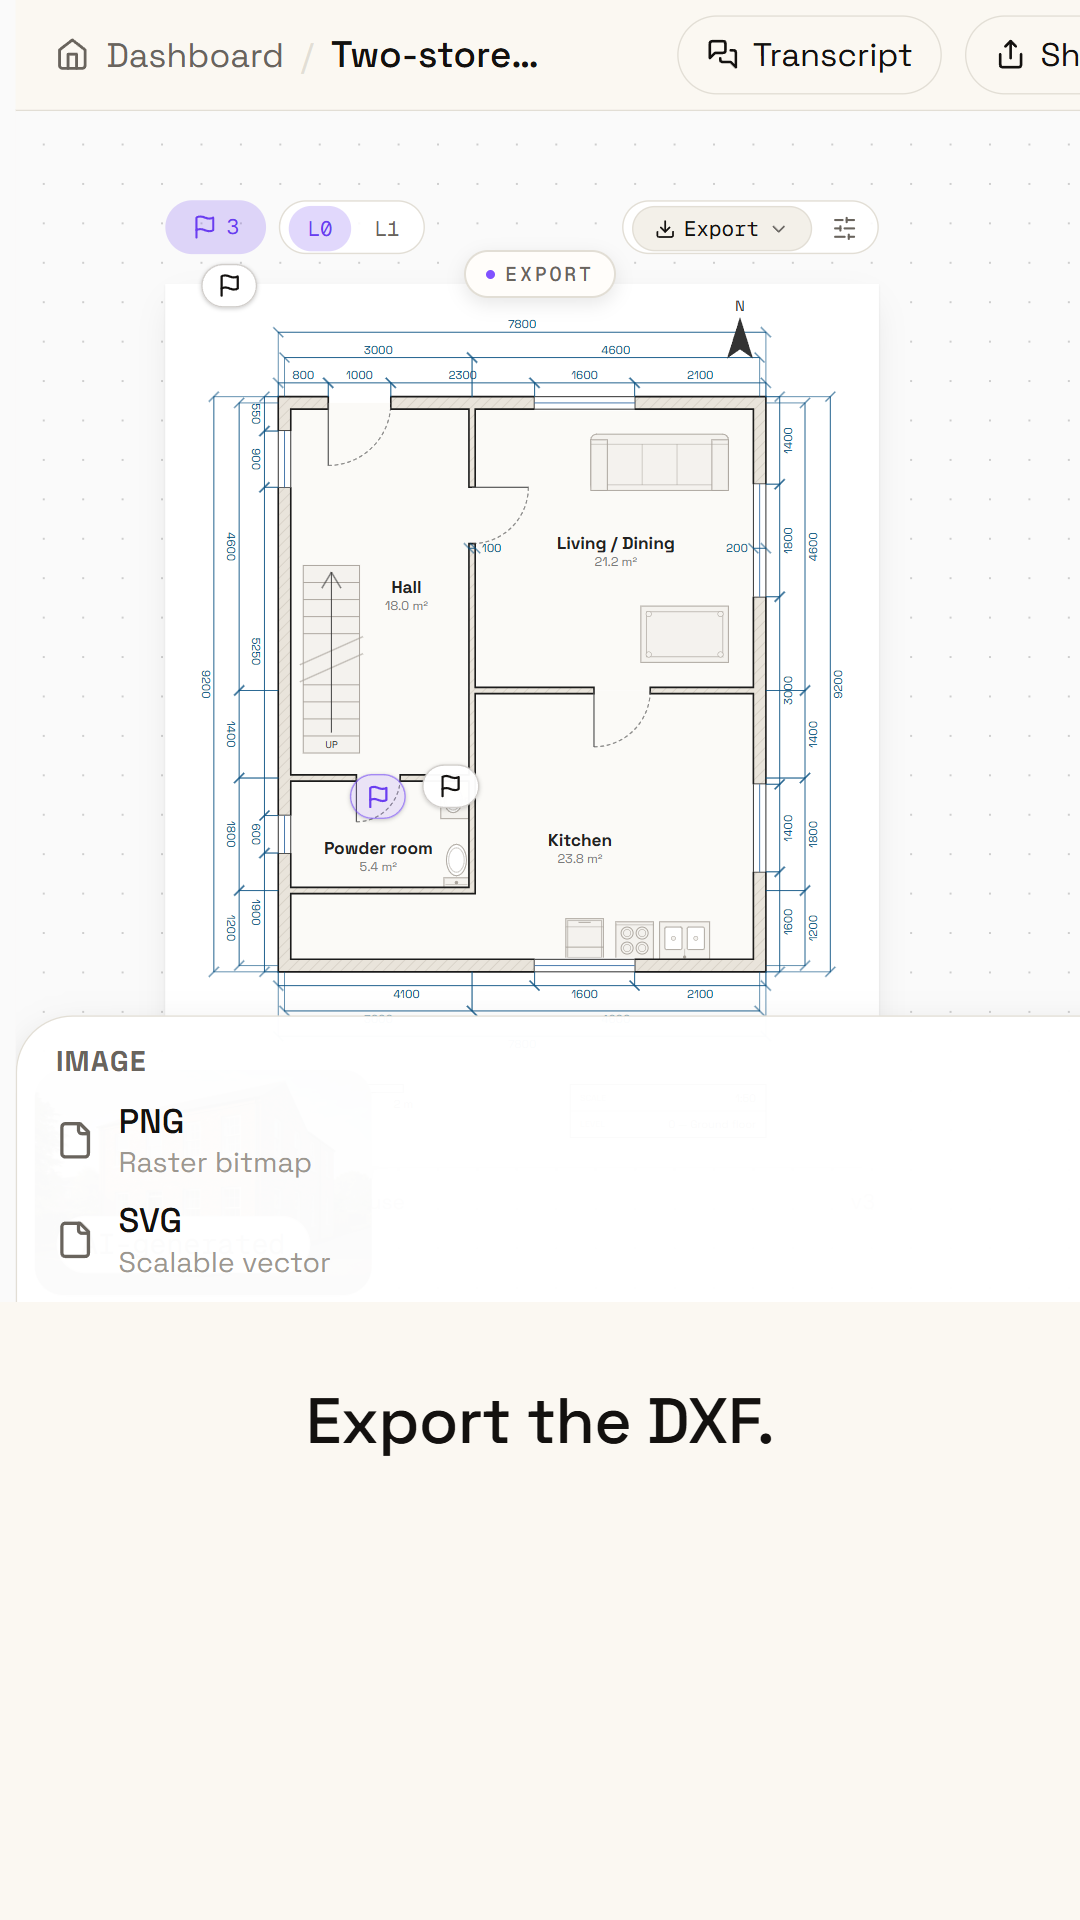
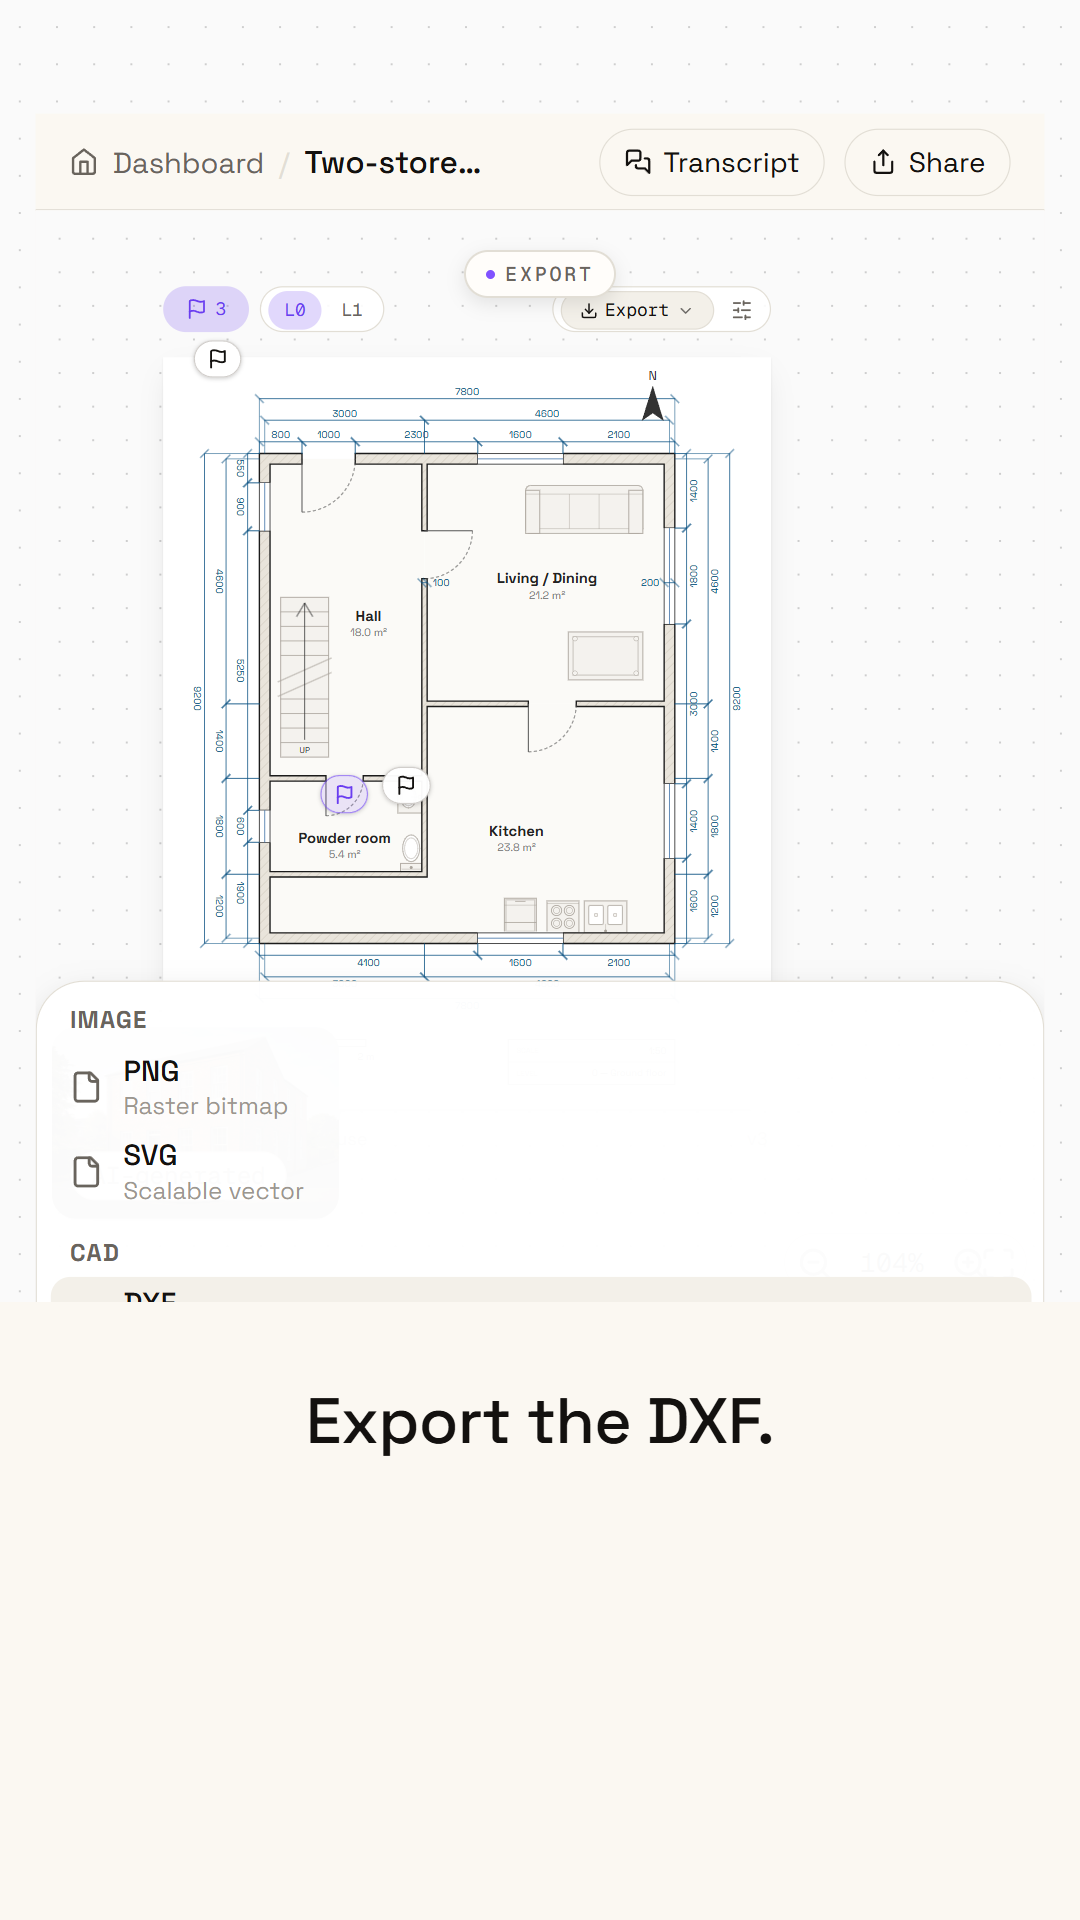
scenes: protect the export menu, and bound protection by the clip
The 9:16 export beat showed "Export the DXF." over a menu whose DXF row had been
cut off — the film's line naming the one thing the frame had cropped.

Two faults. The export menu was not a protected rectangle at all, though it is
the subject of its own beat and in portrait it is the product's full-width bottom
sheet. And protection was measured against the FRAME, while a split scene clips
the picture at the top of its type band — so a rectangle comfortably inside the
frame can be entirely below the clip.

`protectBounds` is that clip. Coverage still uses the whole frame: coverage is
about the page behind the picture, protection is about what a viewer can see.
The 9:16 export shot is now clamped twice over, and the whole menu is on screen.

diff --git a/src/camera.ts b/src/camera.ts
@@ -143,7 +143,18 @@ export interface FrameInput {
   focus: { x: number; y: number };
   /** Rectangles that must stay entirely inside the frame, in film pixels. */
   protect?: readonly StageRect[];
-  /** How far inside the frame edge a protected rectangle must stay. */
+  /**
+   * The box a protected rectangle must stay inside, if not the whole frame.
+   *
+   * ⚠ A `split` scene CLIPS the picture at the top of its type band, and a rect
+   * that is comfortably inside the frame can be entirely below that clip. The
+   * 9:16 export beat is the case: the menu is a full-width bottom sheet, the
+   * push slid it under the clip, and the master showed "Export the DXF." over a
+   * menu whose DXF row had been cut off. Coverage still uses the whole frame —
+   * it is the PROTECTION that is about what a viewer can see.
+   */
+  protectBounds?: StageRect;
+  /** How far inside the protection bounds a protected rectangle must stay. */
   margin?: number;
 }
 
@@ -191,8 +202,10 @@ export const framePush = ({
   scale,
   focus,
   protect = [],
+  protectBounds,
   margin = 8,
 }: FrameInput): FramePush => {
+  const bounds = protectBounds ?? { x: 0, y: 0, w: frameW, h: frameH };
   let s = Number.isFinite(scale) && scale > 1 ? scale : 1;
   let scaleClamped = false;
 
@@ -200,14 +213,14 @@ export const framePush = ({
   // translate, so the scale gives way before the obligation does.
   for (const r of protect) {
     if (r.w > 0) {
-      const cap = (frameW - 2 * margin) / r.w;
+      const cap = (bounds.w - 2 * margin) / r.w;
       if (cap < s) {
         s = Math.max(1, cap);
         scaleClamped = true;
       }
     }
     if (r.h > 0) {
-      const cap = (frameH - 2 * margin) / r.h;
+      const cap = (bounds.h - 2 * margin) / r.h;
       if (cap < s) {
         s = Math.max(1, cap);
         scaleClamped = true;
@@ -233,10 +246,10 @@ export const framePush = ({
   let loY = -(s - 1) * frameH;
   let hiY = 0;
   for (const r of protect) {
-    loX = Math.max(loX, margin - r.x * s);
-    hiX = Math.min(hiX, frameW - margin - (r.x + r.w) * s);
-    loY = Math.max(loY, margin - r.y * s);
-    hiY = Math.min(hiY, frameH - margin - (r.y + r.h) * s);
+    loX = Math.max(loX, bounds.x + margin - r.x * s);
+    hiX = Math.min(hiX, bounds.x + bounds.w - margin - (r.x + r.w) * s);
+    loY = Math.max(loY, bounds.y + margin - r.y * s);
+    hiY = Math.min(hiY, bounds.y + bounds.h - margin - (r.y + r.h) * s);
   }
 
   const wantX = anchorX - fx * s;
@@ -392,7 +405,7 @@ export const shotFor = (
   localFrame: number,
   layout: Layout,
   box: StageRect,
-  opts: { browserFrame: boolean },
+  opts: { browserFrame: boolean; clipBottom?: number },
 ): Shot => {
   const dur = Math.max(1, beat.durationInFrames);
   const localSec = frameToSec(localFrame);
@@ -420,6 +433,13 @@ export const shotFor = (
   const protect: StageRect[] = [];
   if (overlaps(span, CAPTION_SPAN)) protect.push(pad(captionRaw, layout.u(6)));
   if (overlaps(span, RENDERING_SPAN)) protect.push(pad(renderingRaw, layout.u(6)));
+  /*
+   * The export menu is the subject of its own beat, and in 9:16 it is a
+   * full-width bottom sheet. Unprotected, the push slid it under the split
+   * scene's clip and the master showed "Export the DXF." over a menu whose DXF
+   * row had been cut off — the line naming the thing the frame had cropped.
+   */
+  if (beat.scene === "export") protect.push(pad(designRect(mount, exportMenuBox(ctx)), layout.u(8)));
 
   const focusRect = focusRectFor(beat.scene, ctx, span);
   const focus = focusRect
@@ -432,6 +452,14 @@ export const shotFor = (
     scale: beat.frame * pushAt(beat.push, p) * entryScale(localSec),
     focus,
     protect,
+    // A split scene CLIPS the picture at the top of its type band, and a
+    // rectangle comfortably inside the frame can be entirely below that clip.
+    // The protection is about what a viewer can see, so it is bounded by the
+    // clip; coverage still uses the whole frame.
+    protectBounds:
+      opts.clipBottom === undefined
+        ? undefined
+        : { x: 0, y: 0, w: layout.width, h: Math.min(layout.height, opts.clipBottom) },
     // Not a hairline. A protected rectangle that ends two pixels from the frame
     // edge is technically uncropped and looks like a mistake, so the margin is
     // a visible one and the framing gives way to it.

diff --git a/src/components/SceneRouter.tsx b/src/components/SceneRouter.tsx
@@ -92,6 +92,7 @@ const Split: React.FC<{ beat: ResolvedBeat; dur: number }> = ({ beat, dur }) => 
   const layout = useLayout();
   const scene = SCENES[beat.scene];
   const { replica, line } = splitStage(layout);
+  const clipBottom = line.y - layout.u(10);
 
   return (
     <AbsoluteFill style={{ backgroundColor: APP.page }}>
@@ -104,8 +105,8 @@ const Split: React.FC<{ beat: ResolvedBeat; dur: number }> = ({ beat, dur }) => 
         everything we couldn't get right." lying across the product's own
         command bar. The clip is the boundary the split promises.
       */}
-      <AbsoluteFill style={{ height: line.y - layout.u(10), overflow: "hidden" }}>
-        <ReplicaSlot beat={beat} stage={replica} />
+      <AbsoluteFill style={{ height: clipBottom, overflow: "hidden" }}>
+        <ReplicaSlot beat={beat} stage={replica} clipBottom={clipBottom} />
       </AbsoluteFill>
       {scene.chapter ? <ChapterChip label={CHAPTER_LABELS[scene.chapter]} /> : null}
       {scene.copy && lineIsOn(beat) ? <SplitLine copy={scene.copy.copy} dur={dur} /> : null}

diff --git a/src/components/ReplicaSlot.tsx b/src/components/ReplicaSlot.tsx
@@ -44,13 +44,19 @@ export const ReplicaSlot: React.FC<{
   beat: ResolvedBeat;
   /** Where to mount, if not the whole picture box. A `split` scene passes its top. */
   stage?: StageRect;
-}> = ({ beat, stage }) => {
+  /**
+   * Where the caller clips the picture, in film pixels. A `split` scene passes
+   * the top of its type band, and `camera.ts` keeps the protected rectangles
+   * above it rather than merely inside the frame.
+   */
+  clipBottom?: number;
+}> = ({ beat, stage, clipBottom }) => {
   const frame = useCurrentFrame();
   const layout = useLayout();
   const box = stage ?? layout.picture;
   const windowed = layout.aspect === "landscape";
 
-  const shot = shotFor(beat, frame, layout, box, { browserFrame: windowed });
+  const shot = shotFor(beat, frame, layout, box, { browserFrame: windowed, clipBottom });
   const { mount, push } = shot;
 
   return (

diff --git a/docs/decisions.md b/docs/decisions.md
@@ -614,3 +614,26 @@ with it. `capture/tile-contact.mjs` (`npm run stills:sheet`) reads whatever is o
 disk, so a batch that dies part-way still produces a sheet and a re-run only has
 to fill the gap. A step that takes seconds and depends only on files should not
 be downstream of one that takes minutes and can fail.
+
+## D21. The protection is bounded by the CLIP, not by the frame.
+
+The 9:16 export beat showed "Export the DXF." over a menu whose DXF row had been
+cut off — the film's line naming the one thing the frame had cropped.
+
+The export menu is the subject of that beat, and in portrait it is the product's
+full-width bottom SHEET. Two things were wrong and both are now fixed in
+`camera.ts`:
+
+- **It was not protected at all.** `framePush` knew about the honesty caption and
+  the "AI-generated" pill; the menu is the third thing a shot may not crop, and
+  it is protected on its own beat.
+- **Protection was measured against the FRAME.** A `split` scene clips the
+  picture at the top of its type band, so a rectangle comfortably inside the
+  frame can be entirely below that clip. `protectBounds` is that clip; coverage
+  still uses the whole frame, because coverage is about the page behind the
+  picture and protection is about what a viewer can see.
+
+The 9:16 export shot is now clamped twice over — the scale down to 1.16 by the
+menu's full-bleed width, and the translate to −230 px by its height against the
+clip — and the whole menu is on screen. The 16:9 shot is unclamped at 1.38,
+because there the menu is a small anchored popover.
